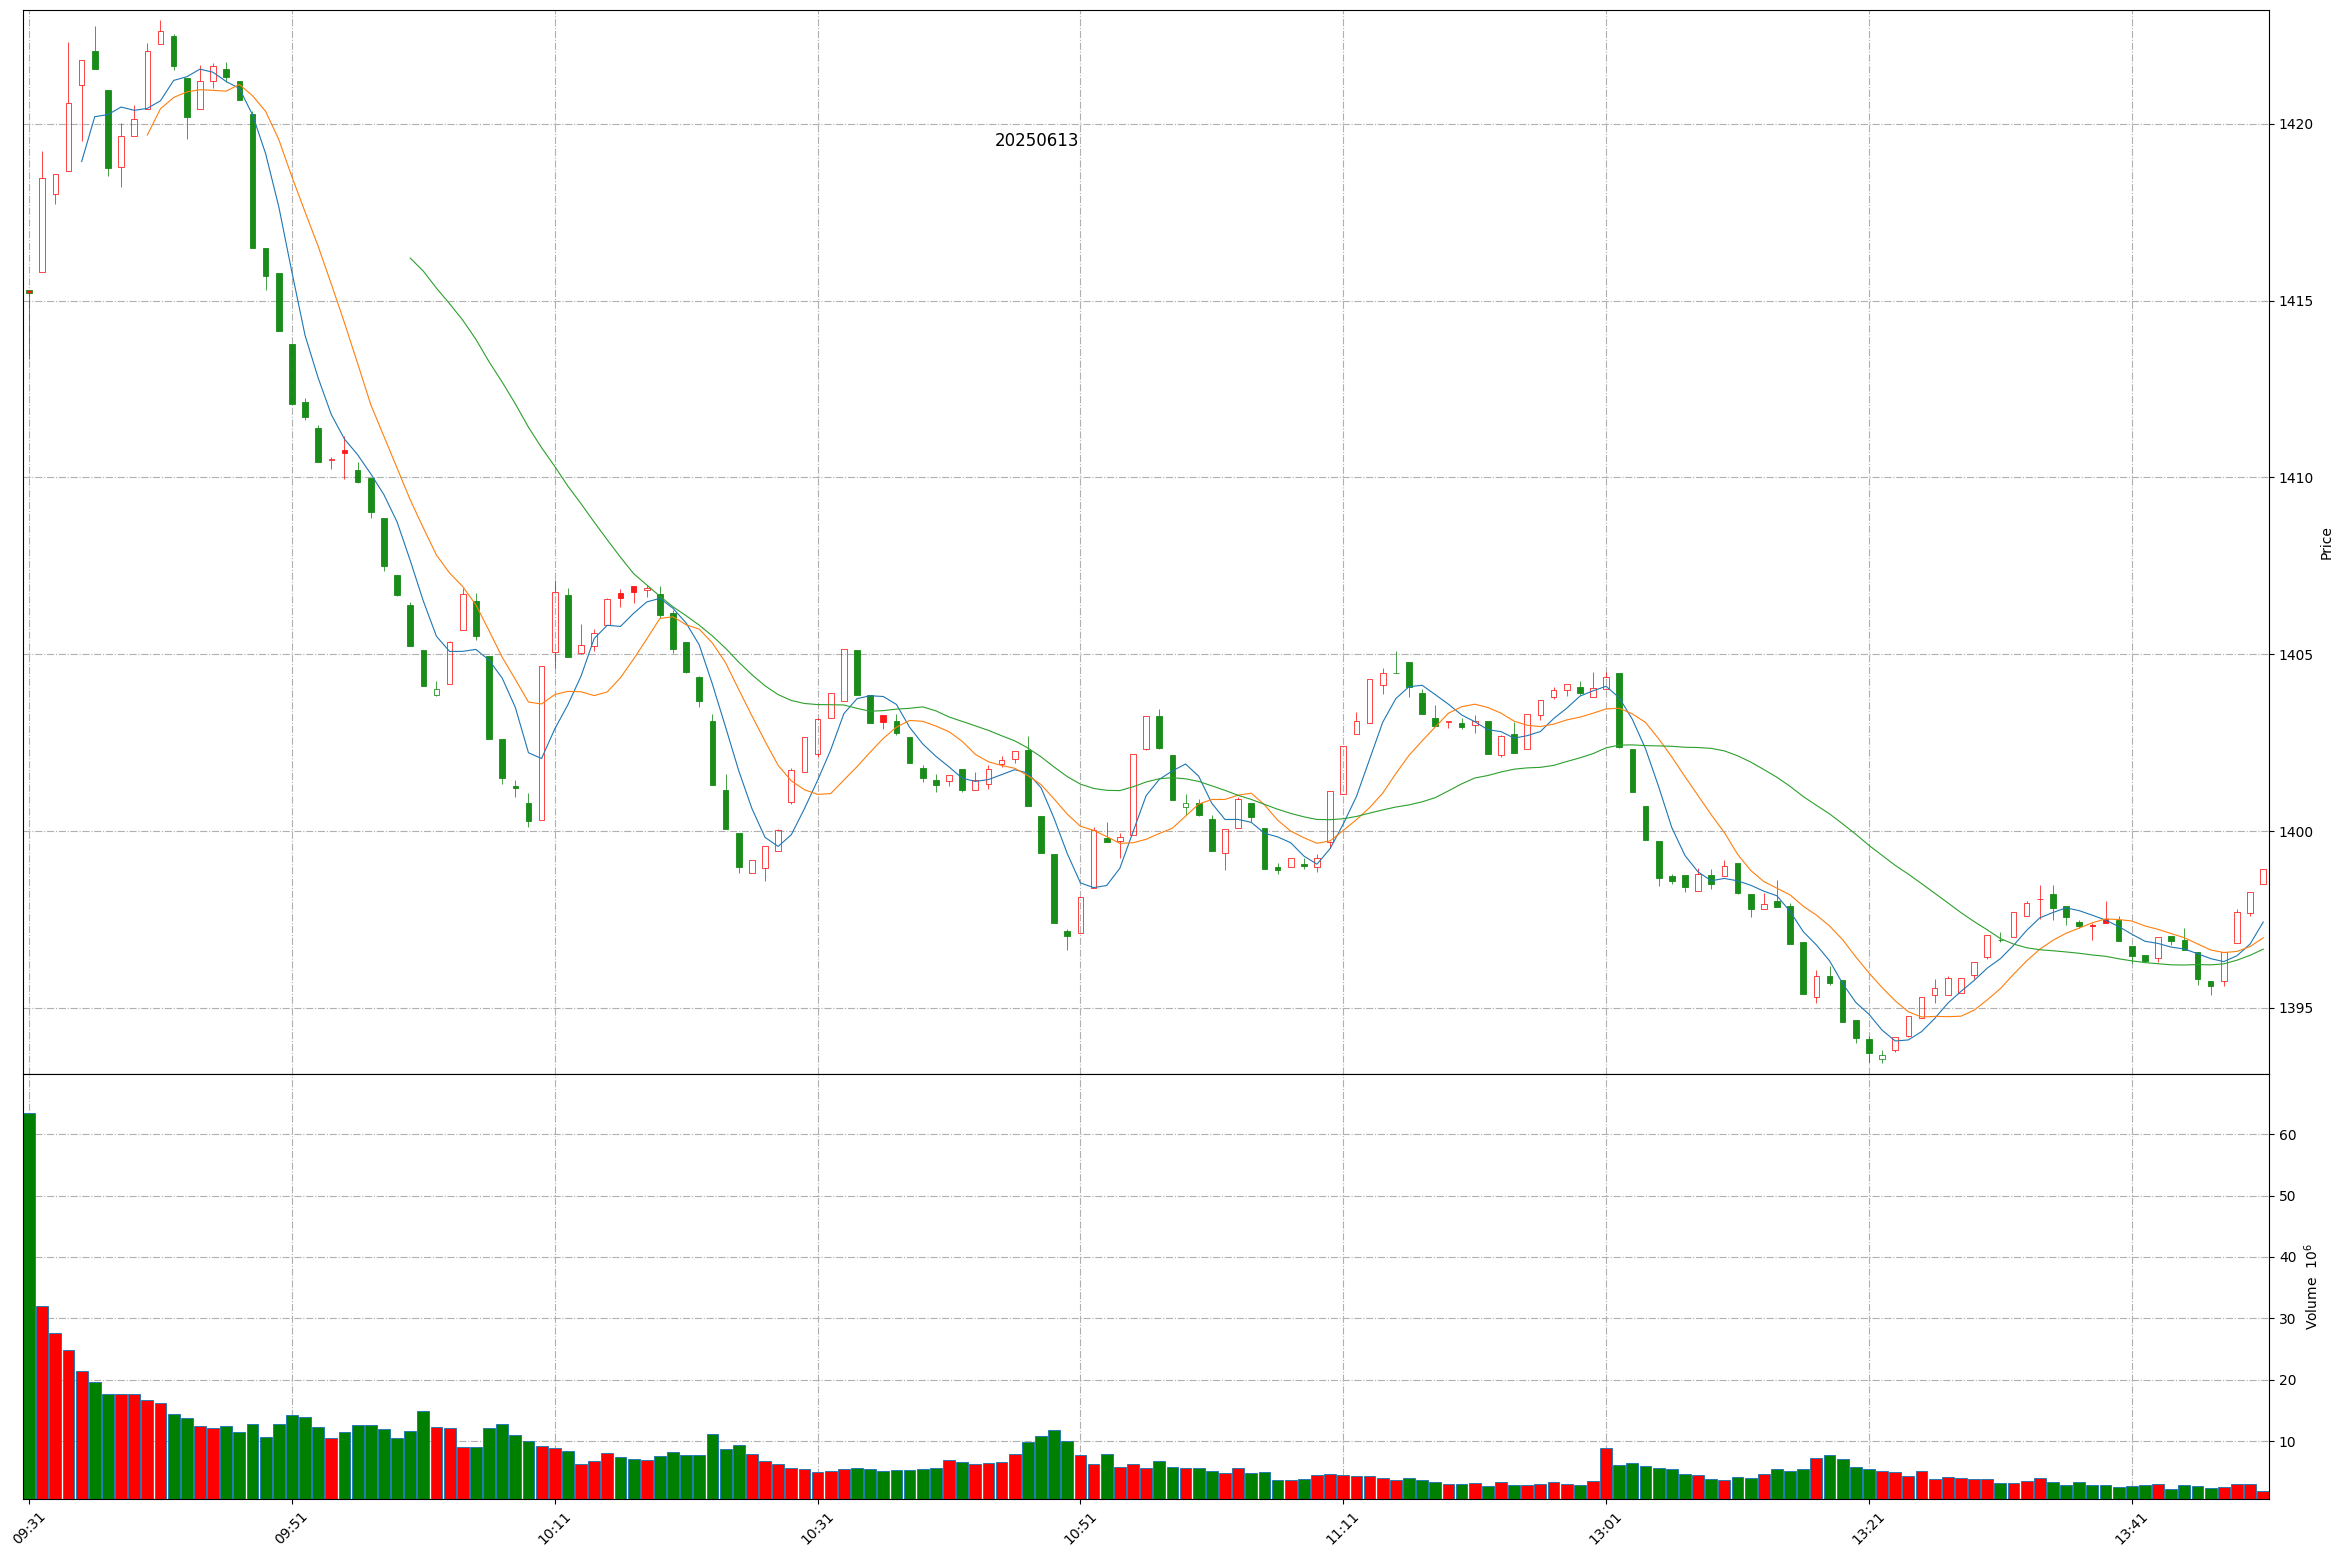
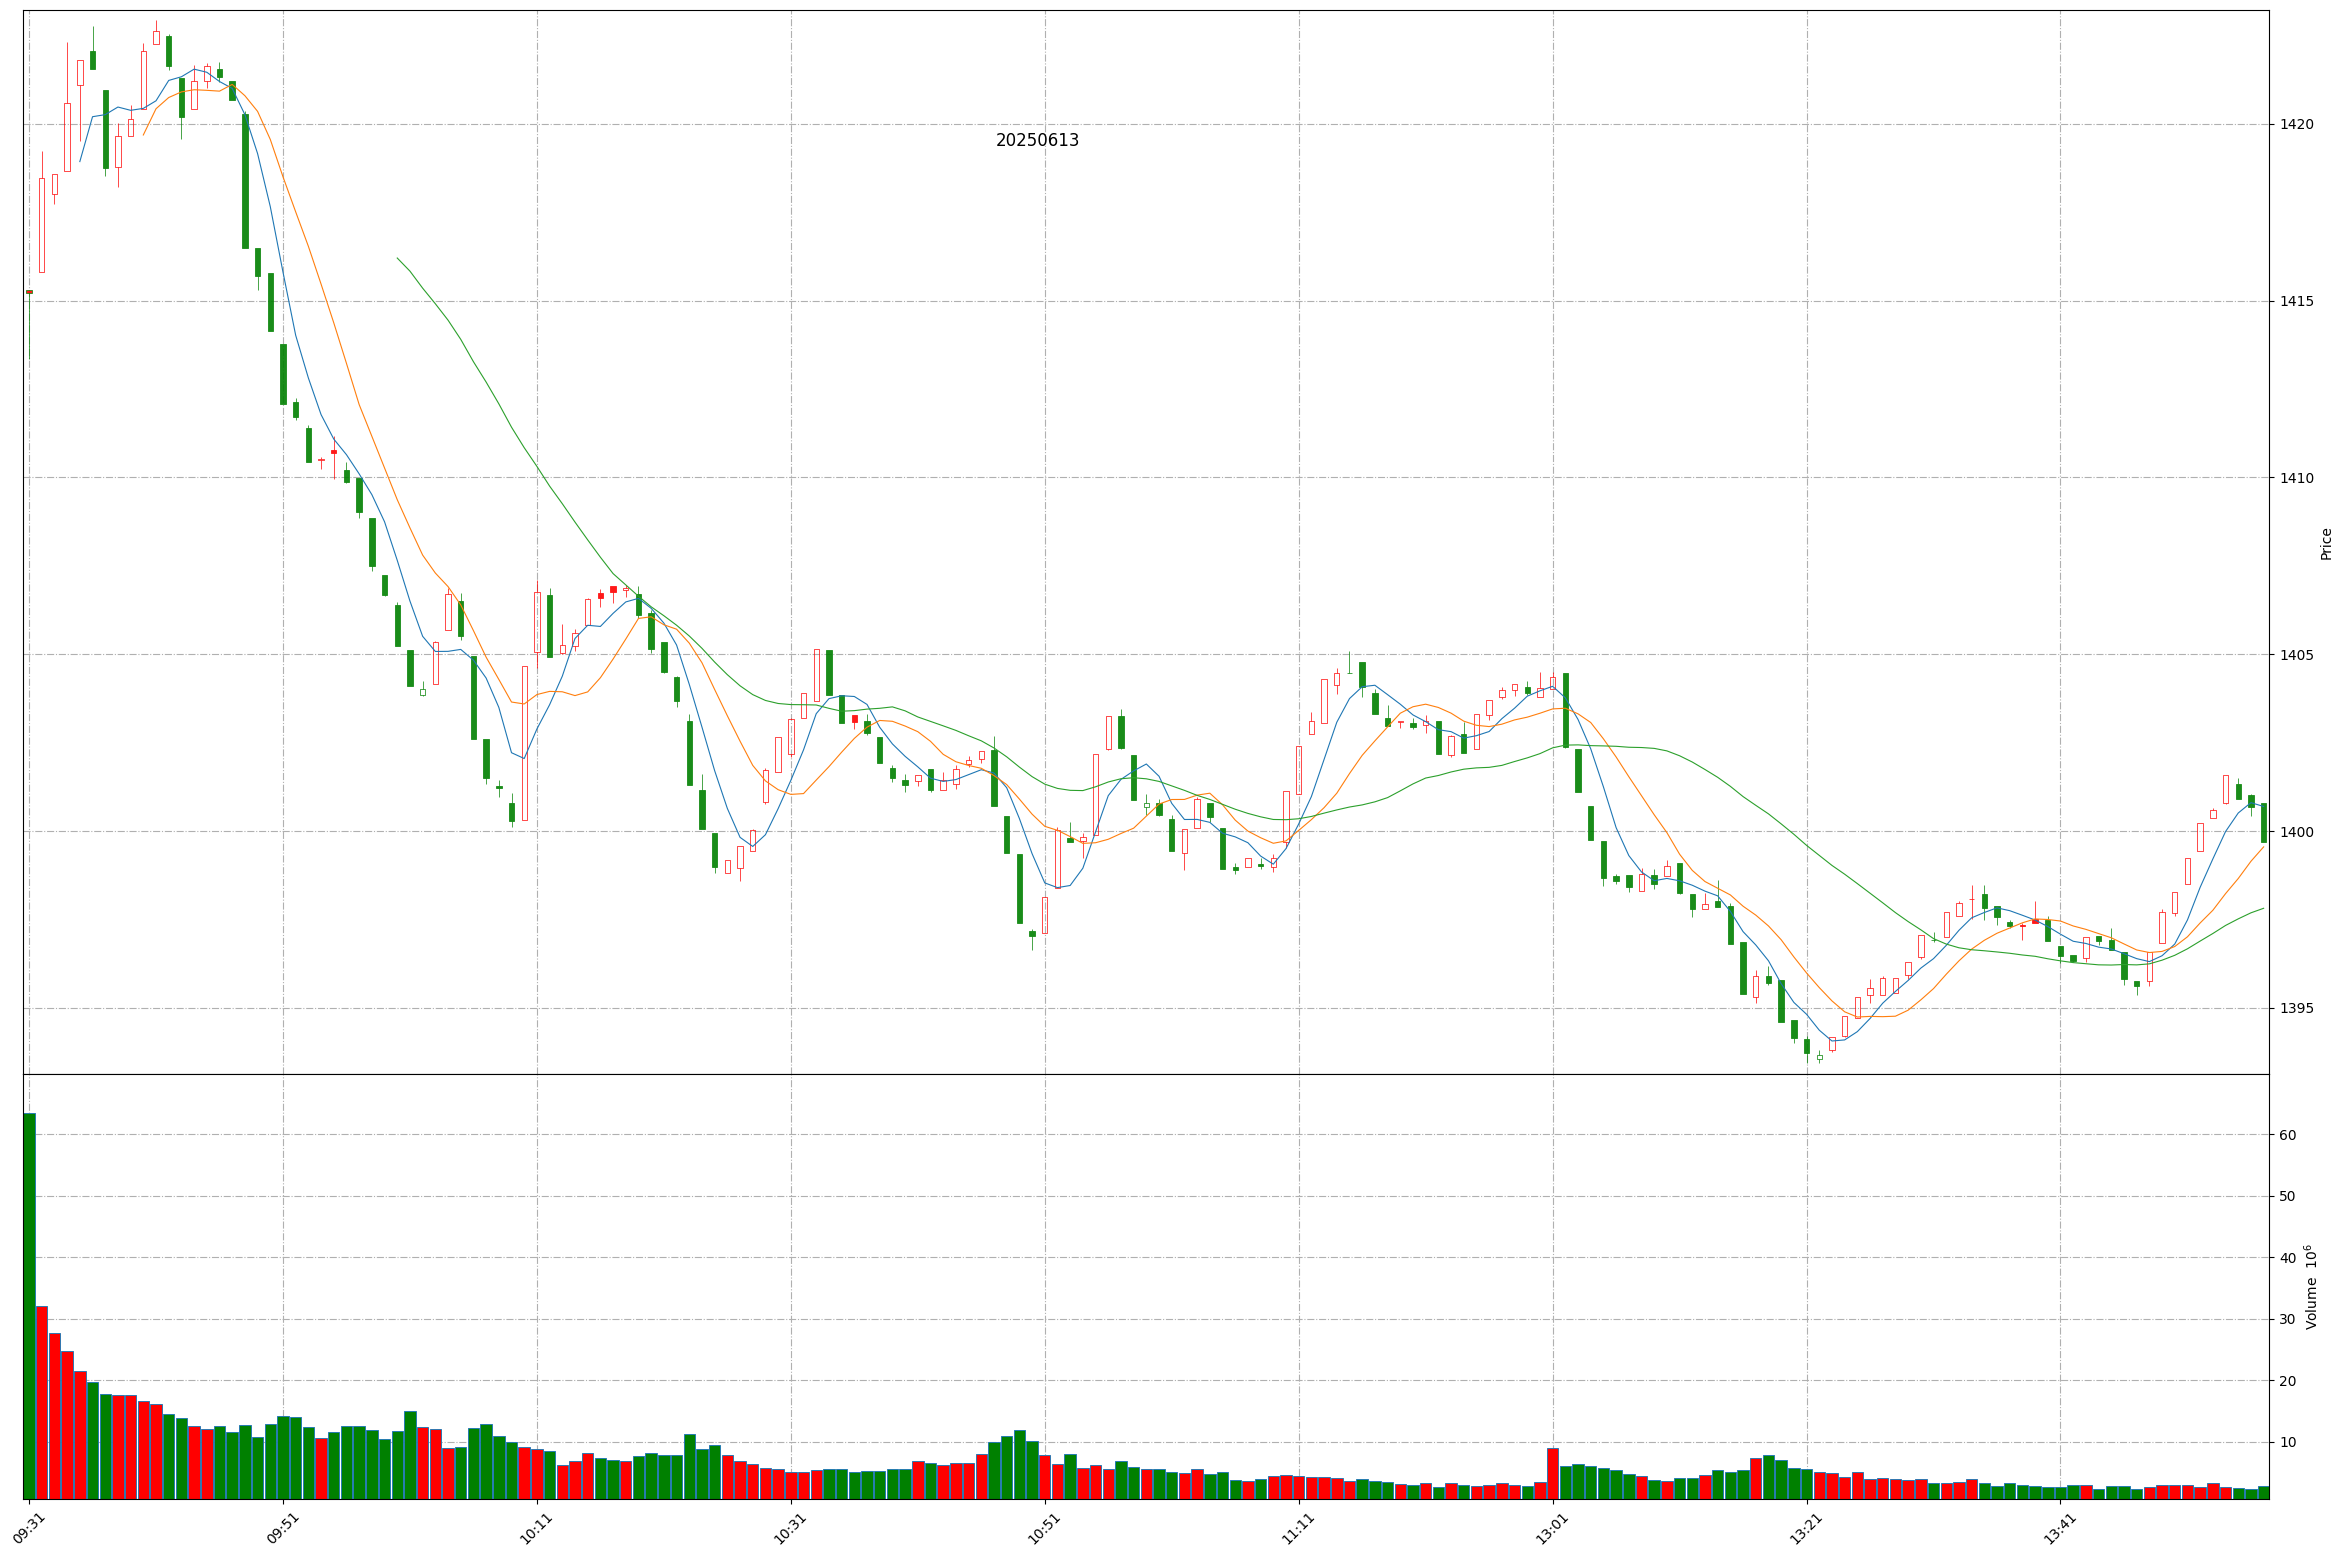
Github action update at 2025-06-13 13:56:58.

diff --git a/README.md b/README.md
@@ -1,11 +1,11 @@
 
 # Daily-A-share-market-quotes 每日 A 股指数（5min 更新）- 20250613
 
-### 上证指数 20250613 13:50
+### 上证指数 20250613 13:56
 ![](./fig/2025/6/20250613-sh000001.png)
 
-### 深证成指 20250613 13:50
+### 深证成指 20250613 13:56
 ![](./fig/2025/6/20250613-sz399001.png)
 
-### 北证50 20250613 13:50
+### 北证50 20250613 13:56
 ![](./fig/2025/6/20250613-bj899050.png)
